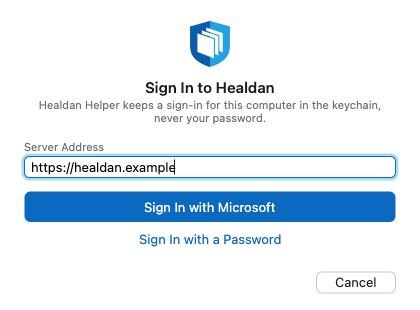
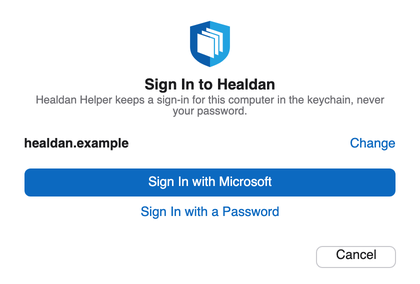
Describe the helper's address-first Sign In window
Installing the Helper's The Sign In Window and Signing In Through the
Browser now describe the two steps: the address and Continue, then the
server's own way of signing in with Change, and a kept address opening on
the second step and trying again while the server can't be reached. Both
pictures are redrawn: the first step with healdan.example typed, and the
second for a server with a provider. They were rendered headless, with the
window tests' Skia and font setup and a fake server named healdan.example,
at 2x and scaled to 420 wide; the keychain line breaks one word later than
on a Mac. The Developer Guide's Desktop Clients page describes the steps,
ServerAnswer and the retry, and M4's spec points to the new design.

diff --git a/site/content/developer/desktop-clients.md b/site/content/developer/desktop-clients.md
@@ -348,18 +348,21 @@ is all there is. `SignIn.SignInWithProviderAsync` then takes these steps, all in
    browser was given it. The answer is the same as a password's, and the token is kept as `SignInAsync` keeps it.
    A `401 sign-in-failed` means the code was used, came too late or didn't match, and the sign-in starts again.
 
-The Sign In window offers it (`Windows/SignInWindow.axaml`, through `SignInPrompt`). `HelperSession.ProvidersAsync`
-reads `GET /server` when the window opens, and again each time the address is changed and left. An answer that
-didn't come (the server couldn't be reached, or isn't Healdan) is asked for again, because a fixed address, as after a
-refused token, is read-only and nobody leaves it: whenever the window is shown again (Avalonia raises `Opened` on every
-`Show`), when the address field is left, and when **Sign In** is pressed. An ask under way is never repeated for the
-same address, and none runs on the UI thread. **Sign In** asks first, with the fields off and its label "Signing In…",
-and sends the password only if the providers still don't come. If they do, the window shows the buttons and sends
-nothing, since an account that signs in through a provider has no password for a wrong one to count against; what was
-typed stays in the form, and a second **Sign In** sends it. A server with
-providers gets a button for each, in its order, and the password form folds behind a link labelled with its
-`passwordLabel`, unless something is typed in the form already. A server with none, an older one, or one the helper
-can't reach or doesn't speak to gets the password form as before, whose Sign In then says why. Showing the window
+The Sign In window offers it (`Windows/SignInWindow.axaml`, through `SignInPrompt`), in two steps (the address-first
+spec, `docs/superpowers/specs/2026-11-16-helper-sign-in-address-first-design.md`). The first is the address, and
+**Continue**, the default button, so Return connects rather than trying a password. `HelperSession.ProvidersAsync`
+makes a sign-in's checks of the address (`BeforeSignIn`), reads `GET /server`, and gives a `ServerAnswer`: the
+server's name (its host and port), and its choices or why there are none, with the messages a password sign-in
+gives. Only a server that couldn't be reached or didn't answer in 30 seconds is marked `Retry`. A problem stays on
+the first step, under the address. Choices take the window to the second step, which names the server, with
+**Change** back to the address (none for a fixed address, as after a refused token, since the helper is running
+against it). A server with providers gets a button for each, in its order, with the first focused, and the password
+form folds behind a link labelled with its `passwordLabel`; a server with none, or an older one, gets the password
+form at once. A kept address opens on the second step, saying it's connecting, and asks when the window opens. A
+`Retry` answer is asked again every 5 seconds (the window's `RetryEvery`) while the window is shown, and any answer
+without choices again whenever it's shown again (Avalonia raises `Opened` on every `Show`). An ask under way is
+never repeated, none runs on the UI thread, and an answer that comes after **Change** is dropped. A password goes
+only to a server whose choices the window shows, so **Sign In** sends it with no ask first. Showing the window
 again clears the error line, which is a stale one by then. A button runs
 `HelperSession.TrySignInWithProviderAsync`, which makes the password sign-in's checks before and after (the address,
 another server's copies, the settings) and turns what went wrong into the window's error line:
@@ -831,10 +834,11 @@ through `channel.json`, hands it any link it was started for, and quits (see [Th
   challenge and the address, and works once. A fake `IBrowser` plays the person: it asks `SessionServer` to sign in,
   then follows its redirect to the helper's real listener, and records where the listener sent it on. `PkceTests`
   hold the challenge to RFC 7636's appendix B.
-- **`SignInWindowTests`** drive the Sign In window headless, with a fake prompt: the buttons and the folded form,
-  the wait and its Cancel, a refusal and the browser's time running out on the error line and the focus it leaves,
-  the providers asked for again when the address changes, when the window is shown again and when Sign In is
-  pressed, and the notice of a sign-in that ended. `HelperSessionTests` run `TrySignInWithProviderAsync` with the
+- **`SignInWindowTests`** drive the Sign In window headless, with a fake prompt: the two steps, Return on the
+  address connecting with no password sent, Continue's problems and its busy state, Change and its absence for a
+  fixed address, a kept address opening on the choices and its retry (stopping at Close and at Change, and dropping
+  a late answer), the buttons and the folded form, the wait and its Cancel, a refusal and the browser's time running
+  out on the error line and the focus it leaves, and the notice of a sign-in that ended. `HelperSessionTests` run `TrySignInWithProviderAsync` with the
   fake browsers above.
 - **`Category=Stack`** tests run against a real stack, and skip without `HEALDAN_STACK_URL`: `StackCycleTests` the
   cycle, and `StackProviderSignInTests`, which also needs `HEALDAN_STACK_SIGNIN_PROVIDER`, a sign-in through the

diff --git a/site/content/user/office/installing-the-helper/index.md b/site/content/user/office/installing-the-helper/index.md
@@ -62,11 +62,13 @@ The helper for Ubuntu isn't ready yet. Until it is, Healdan works in LibreOffice
 
 ## The Sign In Window
 
-![The Sign In to Healdan window: Healdan's mark above the title and a line saying the helper keeps a sign-in in the keychain, never your password; then Server Address https://healdan.example, empty Username and Password fields, and the Cancel and Sign In buttons](sign-in.png)
+![The Sign In to Healdan window's first step: Healdan's mark above the title and a line saying the helper keeps a sign-in in the keychain, never your password; then Server Address with healdan.example typed in it, and the Cancel and Continue buttons](sign-in.png)
 
-Type the server's address. If your firm signs people in through a provider, such as Microsoft, the window then
-shows its button: see [Signing In Through the Browser](#signing-in-through-the-browser). Otherwise it looks as in
-the picture: type your username and password, and choose **Sign In**.
+Type the server's address and choose **Continue**. The window then shows your server's own way of signing in, with
+the server's name at the top and **Change** beside it to go back to the address. If your firm signs people in
+through a provider, such as Microsoft, that's a button for it: see
+[Signing In Through the Browser](#signing-in-through-the-browser). Otherwise type your username and password, and
+choose **Sign In**.
 
 - **The address** is your server's, such as `docs.example.org`. The helper adds `https://` if you leave it out, and
   refuses `http://`: your password and documents only travel encrypted. (`http://localhost` works, for a server on
@@ -75,8 +77,13 @@ the picture: type your username and password, and choose **Sign In**.
   name, and keeps that in your Mac's keychain.
 - **Wrong passwords count,** as they do in the web page: five in a row block your username for 15 minutes, wherever
   you sign in. See [Signing In](../../getting-started/signing-in/#if-you-cant-sign-in).
-- **"That address isn't a Healdan server"** means the address reached a server, but not Healdan. Check it with your
-  administrator.
+- **"That address isn't a Healdan server"** under the address, when you choose **Continue**, means the address
+  reached a server, but not Healdan. Check it with your administrator. If the window says the server couldn't be
+  reached, check the address, and that your Mac is online.
+
+Once the helper knows your server, as after you sign out or when your sign-in ends, the window opens straight on
+your server's way of signing in. If it can't reach the server yet, say just after your Mac starts, it says so and
+tries again every few seconds.
 
 The helper stays signed in until you sign out or change your password, or it goes unused for 30 days, and for a
 year at most: your administrator can change both. It then asks you to sign in again, and anything you save
@@ -91,9 +98,9 @@ an account that signs in through a provider doesn't have: install the latest.
 {{< /callout >}}
 
 When your administrator has set up a sign-in provider, the window shows a button for each, such as **Sign In with
-Microsoft**, once it has found your server. They're the web page's buttons, with the same words.
+Microsoft**, once you've chosen **Continue**. They're the web page's buttons, with the same words.
 
-![The Sign In to Healdan window for a server with a sign-in provider: Healdan's mark above the title and a line saying the helper keeps a sign-in in the keychain, never your password; then Server Address https://healdan.example, the Sign In with Microsoft button, the Sign In with a Password link under it, and the Cancel button](sign-in-provider.png)
+![The Sign In to Healdan window's second step for a server with a sign-in provider: Healdan's mark above the title and a line saying the helper keeps a sign-in in the keychain, never your password; then healdan.example with a Change link beside it, the Sign In with Microsoft button, the Sign In with a Password link under it, and the Cancel button](sign-in-provider.png)
 
 1. Choose the button. The helper opens a tab in your usual browser at the provider, and the window says "Finish
    signing in in your browser…".

diff --git a/docs/superpowers/specs/2026-11-01-m4-oidc-sign-in-design.md b/docs/superpowers/specs/2026-11-01-m4-oidc-sign-in-design.md
@@ -186,7 +186,7 @@ A refusal comes back to the sign-in page, or to the helper (§6.2), with a code.
 
 ### 6.1 The window (call)
 
-- **The sign-in window** asks for the server's address as today, then reads `GET /server`: a button for each provider, and the password link, labelled as on the web page.
+- **The sign-in window** asks for the server's address as today, then reads `GET /server`: a button for each provider, and the password link, labelled as on the web page. (changed later: the address first, then the server's choices; `docs/superpowers/specs/2026-11-16-helper-sign-in-address-first-design.md`.)
 - **A server with no provider** gets today's window. The password route stays for local accounts (owner, §7.3).
 
 ### 6.2 The flow (call; RFC 8252's loopback redirect)
